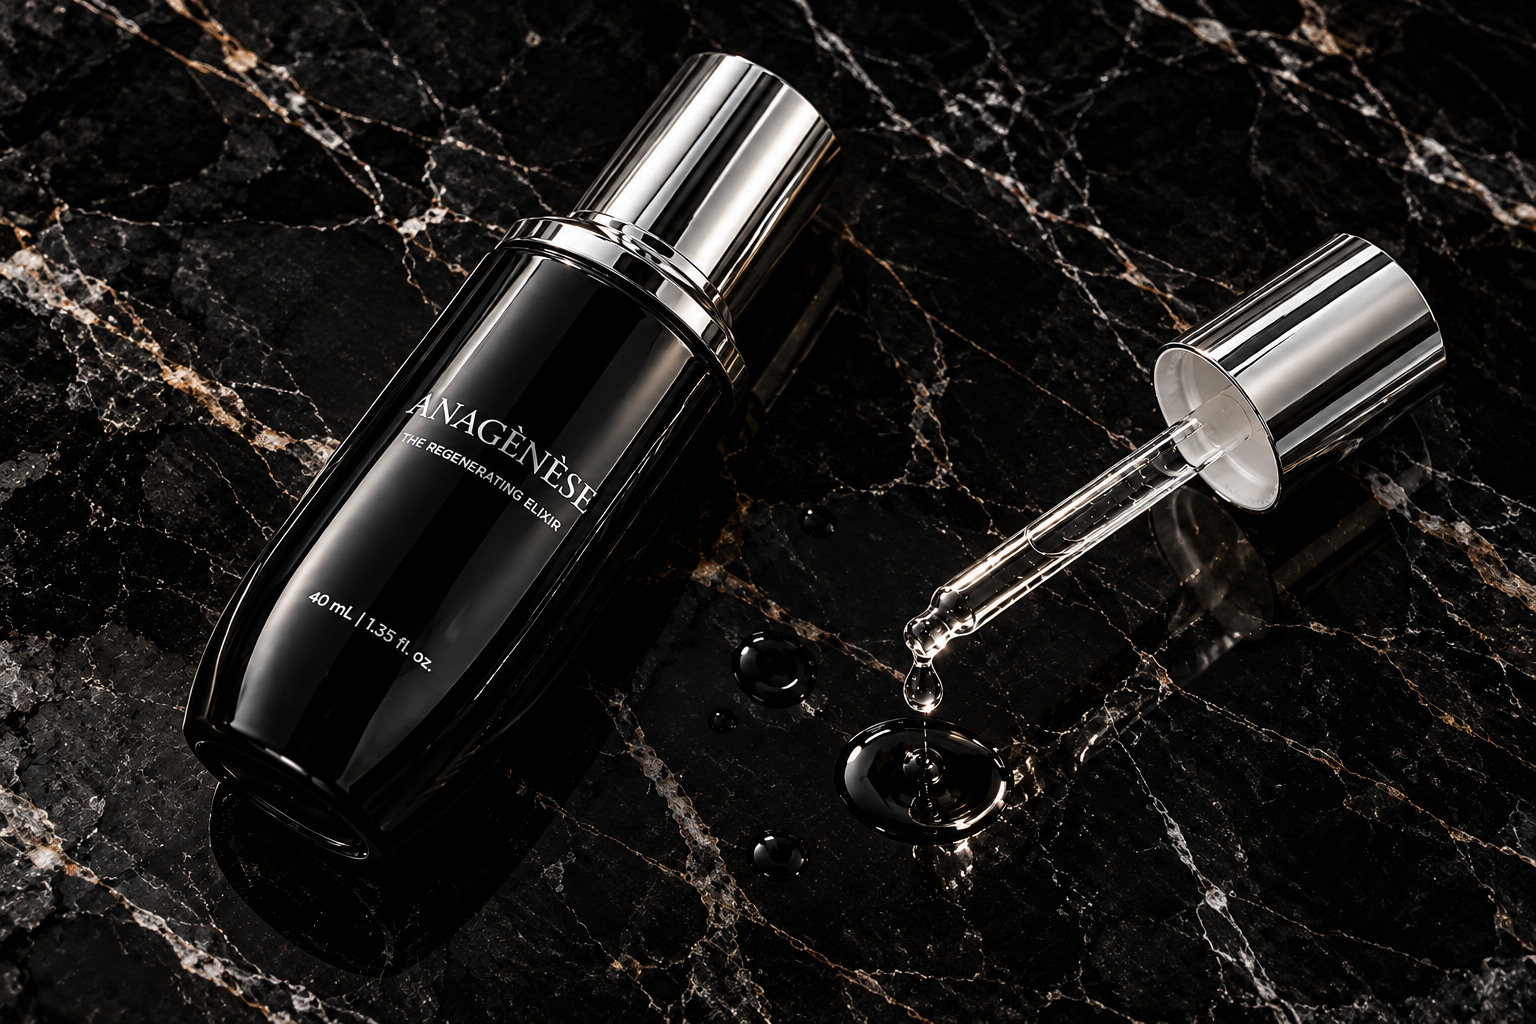
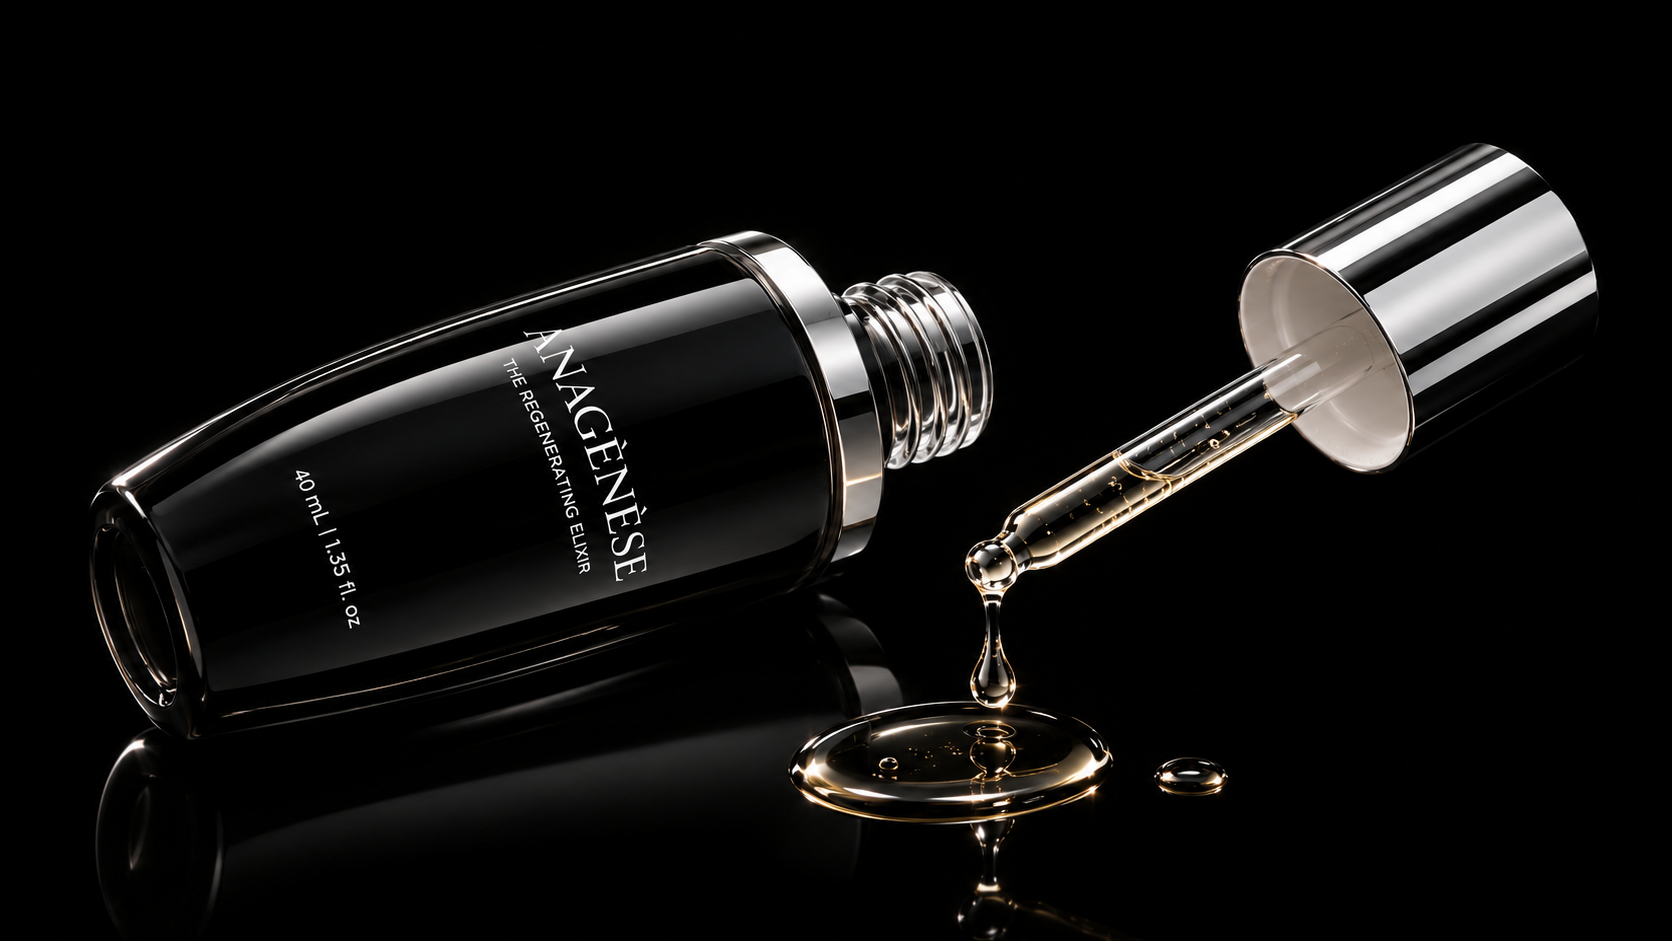
Update The Introduction section with calibrated pipette still life image and refined editorial layout

diff --git a/css/sections.css b/css/sections.css
@@ -1195,8 +1195,8 @@
 
 @media (min-width: 960px) {
   .intro-layout {
-    grid-template-columns: 1.35fr 0.85fr;
-    gap: clamp(3rem, 6vw, 6rem);
+    grid-template-columns: 1.05fr 1fr;
+    gap: clamp(3rem, 5vw, 5rem);
   }
 }
 
@@ -1208,32 +1208,33 @@
 }
 
 .intro-bottle-card {
-  max-width: 320px;
+  max-width: 540px;
   width: 100%;
   border: 1px solid var(--color-silver-border);
   border-radius: var(--radius-xs);
   overflow: hidden;
-  background: #121212;
-  box-shadow: 0 16px 40px rgba(0, 0, 0, 0.75), 0 0 25px rgba(220, 220, 235, 0.04);
-  transition: transform var(--transition-normal), border-color var(--transition-fast);
+  background: #0a0a0a;
+  box-shadow: 0 20px 50px rgba(0, 0, 0, 0.85), 0 0 30px rgba(220, 220, 235, 0.04);
+  transition: transform var(--transition-normal), border-color var(--transition-fast), box-shadow var(--transition-normal);
 }
 
 .intro-bottle-card:hover {
   transform: translateY(-2px);
   border-color: var(--color-silver-border-hover);
+  box-shadow: 0 24px 60px rgba(0, 0, 0, 0.95), 0 0 35px rgba(220, 220, 235, 0.08);
 }
 
 .intro-bottle-image {
   width: 100%;
   height: auto;
-  max-height: 420px;
-  object-fit: contain;
+  aspect-ratio: 16 / 9;
+  object-fit: cover;
   display: block;
-  background: #0d0d0d;
+  background: #000;
 }
 
 .intro-bottle-caption {
-  padding: 0.75rem 1rem;
+  padding: 0.85rem 1.25rem;
   border-top: 1px solid rgba(255, 255, 255, 0.06);
   display: flex;
   justify-content: space-between;

diff --git a/index.html b/index.html
@@ -224,7 +224,7 @@
             <div class="intro-bottle-card">
               <img 
                 src="/assets/images/anagenese-bottle-detail.png" 
-                alt="ANAGÈNESE by VELARI PRIVÉ obsidian flacon detail" 
+                alt="ANAGÈNESE by VELARI PRIVÉ luxury obsidian flacon with calibrated pipette and regenerating elixir drops" 
                 class="intro-bottle-image"
                 loading="lazy"
               >
